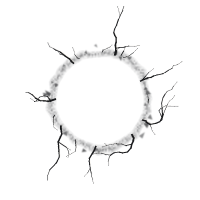
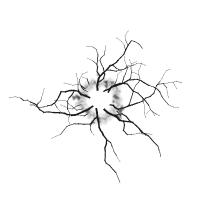
Carga: las grietas salen del centro de la válvula
Lo que se clava en la pared es el cubo con su vástago, no el aro: las grietas nacen ahí, corren
por detrás de los radios y pasan del aro, y el yeso machacado queda alrededor del cubo. El polvo y
los cascotes también salen del centro.

diff --git a/tools/gen_crack.py b/tools/gen_crack.py
@@ -1,8 +1,9 @@
 #!/usr/bin/env python3
 """Grietas de la pared donde se clava la válvula de la pantalla de carga.
 
-Salen del borde de la válvula hacia fuera, quebradas y con ramas, y alrededor del aro el yeso
-queda machacado y desconchado. Cada grieta es oscura por dentro y tiene un filo claro del lado
+Salen del centro (lo que se clava es el cubo con su vástago) y corren hacia fuera por detrás de
+los radios hasta pasar del aro, quebradas y con ramas; alrededor del cubo el yeso queda machacado
+y desconchado. Cada grieta es oscura por dentro y tiene un filo claro del lado
 del bombillo (arriba a la derecha), como un surco en la pared. Se abren en tres etapas (la consola
 las cambia en el golpe, una tras otra, y se ven correr).
 
@@ -20,7 +21,8 @@ from PIL import Image, ImageDraw, ImageFilter
 ROOT = os.path.dirname(os.path.dirname(os.path.abspath(__file__)))
 CRACK = 200                     # en pantalla, a tamaño real (la válvula mide unos 100 px)
 SS = 4                          # supermuestreo
-RIM = 44.0                      # radio donde empiezan (el aro de la válvula, algo por dentro)
+HUB = 9.0                       # radio donde empiezan (el borde del vástago, bajo el cubo)
+RIM = 46.0                      # el aro de la válvula
 STAGES = (0.30, 0.62, 1.0)      # hasta dónde ha corrido cada grieta en cada etapa
 
 
@@ -56,18 +58,18 @@ def build(seed=5):
     n = 8
     for i in range(n):
         a = (i + rng.random() * 0.7) * 2 * math.pi / n
-        r = RIM + rng.random() * 3
-        length = 28 + rng.random() * 30
+        r = HUB + rng.random() * 2
+        length = 52 + rng.random() * 30
         if i % 3 == 0:
-            length += 18                     # unas pocas llegan más lejos
+            length += 16                     # unas pocas llegan más lejos
         walk(rng, math.cos(a) * r, math.sin(a) * r, a + rng.normal(0, 0.25), length, 1.5 + rng.random() * 0.6,
-             0.0, 55.0 + rng.random() * 25, cracks)
+             0.0, 90.0 + rng.random() * 30, cracks)
     # grietas finas entre las grandes
     for i in range(10):
         a = rng.random() * 2 * math.pi
-        r = RIM + 2 + rng.random() * 4
-        walk(rng, math.cos(a) * r, math.sin(a) * r, a + rng.normal(0, 0.5), 6 + rng.random() * 12, 0.8,
-             0.1 + rng.random() * 0.2, 60.0, cracks, depth=2)
+        r = HUB + 4 + rng.random() * 8
+        walk(rng, math.cos(a) * r, math.sin(a) * r, a + rng.normal(0, 0.5), 8 + rng.random() * 16, 0.8,
+             0.05 + rng.random() * 0.15, 80.0, cracks, depth=2)
     return rng, cracks
 
 
@@ -92,7 +94,7 @@ def render(rng_seed, cracks, limit):
     core_a = np.array(core, float) / 255
     lit_a = np.clip(np.array(lit, float) / 255 - core_a, 0, 1)
 
-    # El yeso machacado alrededor del aro: un anillo de manchas y desconchones
+    # El yeso machacado alrededor del cubo: un anillo de manchas y desconchones
     rng = np.random.default_rng(rng_seed + 100)
     y, x = (np.mgrid[0:S, 0:S] - c) / SS
     r = np.hypot(x, y)
@@ -100,20 +102,20 @@ def render(rng_seed, cracks, limit):
     wob = np.zeros_like(r)
     for k in (3, 5, 9, 14, 23):
         wob += np.sin(ang * k + rng.random() * 6.28) * (1.6 / math.sqrt(k))
-    ring = np.clip(1 - np.abs(r - (RIM + 4 + wob)) / (5 + wob * 0.6), 0, 1)
+    ring = np.clip(1 - np.abs(r - (HUB + 9 + wob)) / (6 + wob * 0.5), 0, 1)
     grain = np.array(Image.fromarray((rng.random((S // 6, S // 6)) * 255).astype('uint8')).resize((S, S), Image.BICUBIC), float) / 255
     crush = np.clip(ring * (0.25 + 0.55 * grain), 0, 1)
     chips = Image.new('L', (S, S), 0)
     dch = ImageDraw.Draw(chips)
     for _ in range(26):
         a = rng.random() * 2 * math.pi
-        rr = (RIM + 2 + rng.random() * 9) * SS
+        rr = (HUB + 5 + rng.random() * 12) * SS
         px, py = c + math.cos(a) * rr, c + math.sin(a) * rr
         sz = (1.2 + rng.random() * 2.6) * SS
         poly = [(px + math.cos(a + k * 2.1 + rng.random()) * sz, py + math.sin(a + k * 2.1 + rng.random()) * sz) for k in range(3)]
         dch.polygon(poly, fill=int(150 + rng.random() * 100))
     chips_a = np.array(chips.filter(ImageFilter.GaussianBlur(0.6 * SS)), float) / 255
-    inner = np.clip((r - (RIM - 6)) / 4, 0, 1)                      # bajo la válvula no hace falta
+    inner = np.clip((r - (HUB - 3)) / 3, 0, 1)                       # el agujero del vástago, tapado
 
     dark = np.clip(np.maximum(core_a * 0.92, np.maximum(crush * 0.55, chips_a * 0.75)), 0, 1) * inner
     light = np.clip(lit_a * 0.28, 0, 1) * inner * (1 - dark)

diff --git a/source/main.c b/source/main.c
@@ -3238,8 +3238,9 @@ static void draw_wheel3d(float cx, float cy, float scale, float spin, float alph
 	C2D_DrawImageAtRotated(C2D_SpriteSheetGetImage(wheel_sheet, W3D_DIRT), cx, cy, 0.5f, spin, &tint, s, s);
 }
 
-// El golpe en la pared: el yeso se raja desde el aro (las grietas corren en tres etapas), sale una
-// nube de polvo de yeso que se abre y sube despacio, y caen cascotes. Las grietas y el polvo van
+// El golpe en la pared: el yeso se raja desde el centro, donde se clava el vástago (las grietas
+// corren en tres etapas por detrás de los radios y pasan del aro), sale una nube de polvo de yeso
+// que se abre entre los radios y sube despacio, y caen cascotes. Las grietas y el polvo van
 // detrás de la válvula; los cascotes, delante
 static void draw_impact_back(float t, float cx, float cy)
 {
@@ -3255,7 +3256,7 @@ static void draw_impact_back(float t, float cx, float cy)
 		if (age < 0 || age > life) continue;
 		float p = age / life;
 		float a = i * 0.628f + hrand(i, 31) * 0.5f;
-		float r = 48 + 34 * (1 - expf(-age * 2.4f));
+		float r = 16 + 66 * (1 - expf(-age * 2.4f));
 		float x = cx + cosf(a) * r, y = cy + sinf(a) * r * 0.9f - 16 * age - 6 * age * age;
 		float al = clampf(age / 0.06f, 0, 1) * powf(1 - p, 1.6f) * 0.42f;
 		// Yeso gris en penumbra, con el lado del bombillo algo más cálido
@@ -3275,7 +3276,7 @@ static void draw_impact_front(float t, float cx, float cy)
 		float v = 40 + 90 * hrand(i, 42), up = 30 + 80 * hrand(i, 43);
 		float age = u - hrand(i, 44) * 0.05f;
 		if (age < 0) continue;
-		float x = cx + cosf(a) * (47 + v * age), y = cy + sinf(a) * 47 - up * age + 0.5f * 520 * age * age;
+		float x = cx + cosf(a) * (16 + v * age), y = cy + sinf(a) * 16 - up * age + 0.5f * 520 * age * age;
 		if (y > SCR_H + 4) continue;
 		float sz = 1.2f + 2.2f * hrand(i, 45);
 		float al = 1 - clampf((age - 0.9f) / 0.5f, 0, 1);
